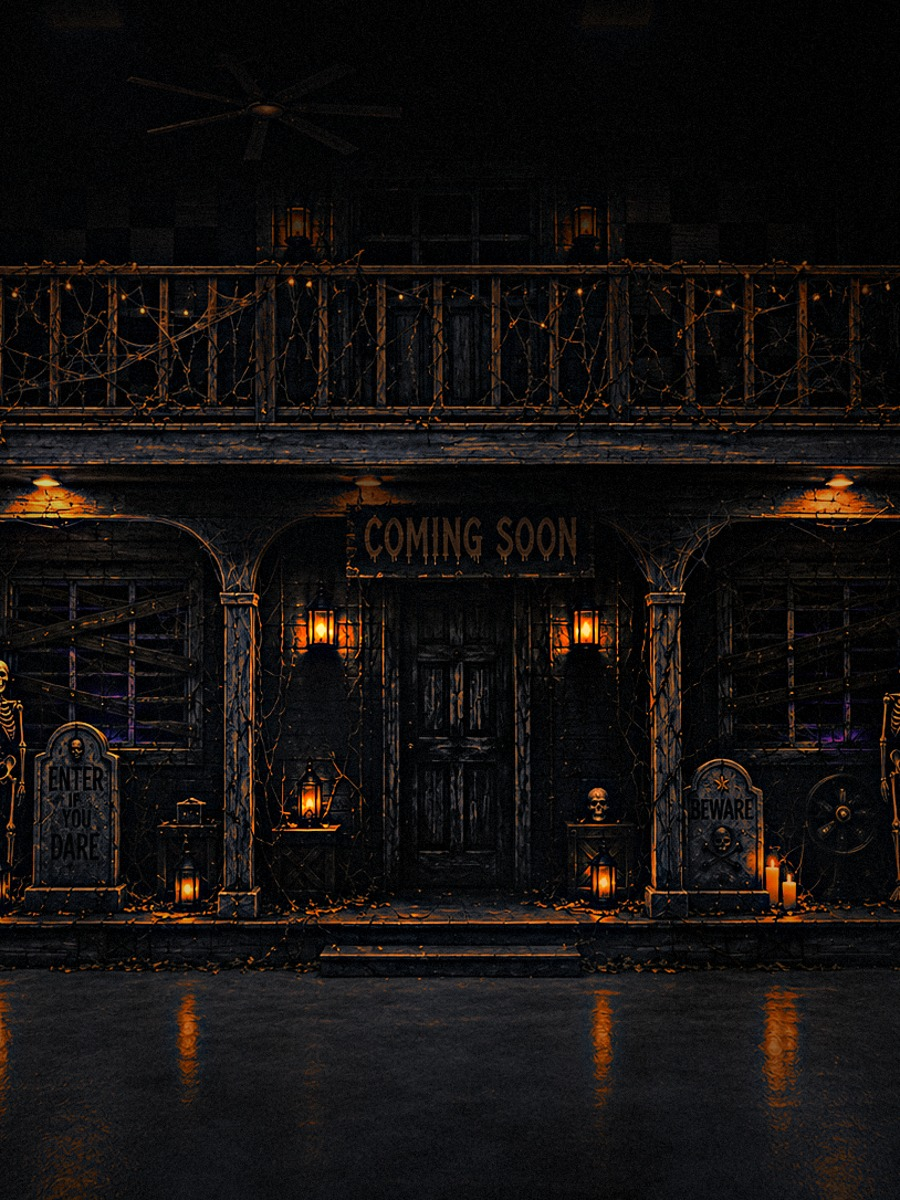
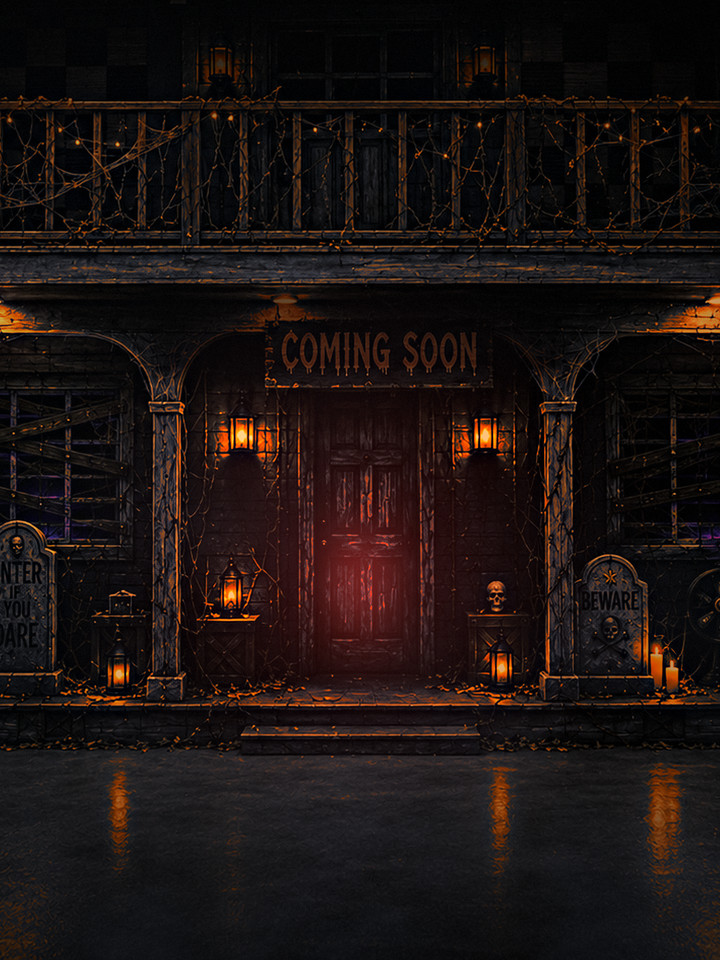
Red pass, 2x hero plates, name field, phone layout
The page read as atmospheric but not frightening, so red now comes from
exactly one place: behind the front door. It is graded into the plate as a
lit doorway rather than painted over the page, and the hero scrim came down
from .88 to .72 so it actually survives to the browser.

The house looked soft because a 1448px render was being stretched to a
retina viewport. The whole grade now runs at 2x and ships @2x plates behind
a srcset, so fog, halation and grain are real pixels at display size.

Form takes Name, Email, Phone. No upsert on insert: merge-duplicates makes
it an UPDATE and nothing should be able to rewrite a row here. A repeat
signup 409s, which the client already treats as success.

Phone pass: heavier crop and no blend-mode fog on small screens, full-width
tap target, balanced display lines so short ones stop orphaning a word, and
a landscape case for short viewports.

Claude-Session: https://claude.ai/code/session_01ByPgt9rQvzWTEajtcNvSYQ

diff --git a/index.html b/index.html
@@ -17,8 +17,8 @@
 <link rel="preconnect" href="https://fonts.googleapis.com">
 <link rel="preconnect" href="https://fonts.gstatic.com" crossorigin>
 <link href="https://fonts.googleapis.com/css2?family=Cinzel:wght@400;600&family=Cormorant+Garamond:ital,wght@0,300;0,400;1,300&display=swap" rel="stylesheet">
-<link rel="preload" as="image" href="img/hero-wide.jpg" media="(min-width: 700px)">
-<link rel="preload" as="image" href="img/hero-tall.jpg" media="(max-width: 699px)">
+<link rel="preload" as="image" href="img/hero-wide.jpg" imagesrcset="img/hero-wide.jpg 1x, img/hero-wide@2x.jpg 2x" media="(min-width: 700px)">
+<link rel="preload" as="image" href="img/hero-tall.jpg" imagesrcset="img/hero-tall.jpg 1x, img/hero-tall@2x.jpg 2x" media="(max-width: 699px)">
 <style>
 :root{
   --ink:#050505;
@@ -27,6 +27,8 @@
   --ash:#5e574e;
   --ember:#c2702f;
   --blood:#7d1d14;
+  /* --blood is a fill. Type on near-black needs the lit one. */
+  --blood-lit:#c9342a;
   --serif:"Cormorant Garamond",Georgia,"Times New Roman",serif;
   --display:"Cinzel","Cormorant Garamond",Georgia,serif;
   --slow:cubic-bezier(.16,1,.3,1);
@@ -79,8 +81,10 @@ body{
    headline stops fighting the sign hanging over the door */
 .stage{align-items:end}
 .hero{position:relative;z-index:2;text-align:center;padding:0 6vw 11vh;isolation:isolate}
+/* the scrim was at .88 and swallowing the red coming out of the doorway.
+   The headline already carries its own shadow, so let the door show through. */
 .hero::before{content:"";position:absolute;inset:-8vh -12vw -8vh;z-index:-1;
-  background:radial-gradient(58% 60% at 50% 55%,rgba(3,3,3,.88),rgba(3,3,3,.55) 55%,transparent 78%)}
+  background:radial-gradient(58% 60% at 50% 55%,rgba(3,3,3,.72),rgba(3,3,3,.40) 55%,transparent 78%)}
 .hero h1{
   font-family:var(--display);font-weight:400;margin:0;
   font-size:clamp(1.9rem,6.2vw,4.6rem);line-height:1.06;letter-spacing:.01em;
@@ -88,19 +92,19 @@ body{
 .hero h1 span{display:block}
 .hero h1 .buried{
   display:block;margin-top:.5em;font-size:clamp(.78rem,2.1vw,1.35rem);
-  letter-spacing:.22em;color:#c08a75;font-weight:400}
+  letter-spacing:.22em;color:#bd5748;font-weight:400}
 .clue{margin:2.6rem 0 0;font-size:clamp(.62rem,1.5vw,.8rem);letter-spacing:.42em;
   color:#8f8578;text-transform:uppercase}
 .clue b{display:block;font-weight:400;margin-top:.65rem;color:#cbc0b1;letter-spacing:.34em}
 .scroll{position:absolute;bottom:3.2vh;left:50%;transform:translateX(-50%);z-index:2;
-  width:1px;height:8vh;background:linear-gradient(to bottom,transparent,var(--ash));opacity:.7}
+  width:1px;height:8vh;background:linear-gradient(to bottom,transparent,var(--blood-lit));opacity:.55}
 
 /* ---------- everything below the house ---------- */
 main{position:relative;background:var(--ink)}
 section{max-width:44rem;margin:0 auto;padding:clamp(5rem,14vh,9rem) 7vw}
 .eyebrow{font-family:var(--display);font-size:clamp(1.15rem,3.4vw,1.9rem);letter-spacing:.16em;
   margin:0 0 2.4rem;color:#d6cbba;text-transform:uppercase}
-.rule{width:100%;height:1px;border:0;background:linear-gradient(to right,transparent,var(--ash),transparent);
+.rule{width:100%;height:1px;border:0;background:linear-gradient(to right,transparent,#5a2a24,transparent);
   opacity:.5;margin:0}
 
 /* signup */
@@ -111,14 +115,15 @@ section{max-width:44rem;margin:0 auto;padding:clamp(5rem,14vh,9rem) 7vw}
   padding:.85rem .1rem;color:var(--bone);font-family:var(--serif);font-size:1.05rem;
   letter-spacing:.12em;transition:border-color .35s var(--slow)}
 .field input::placeholder{color:#4e4740;letter-spacing:.2em;text-transform:uppercase;font-size:.78rem}
-.field input:focus{outline:none;border-bottom-color:var(--ember)}
+.field input:focus{outline:none;border-bottom-color:var(--blood-lit)}
 .sr{position:absolute;width:1px;height:1px;overflow:hidden;clip:rect(0 0 0 0);white-space:nowrap}
 button{
   margin-top:.6rem;background:transparent;color:#ddd2c1;border:1px solid #4a423a;
   font-family:var(--display);font-size:.82rem;letter-spacing:.3em;text-transform:uppercase;
   padding:1.15rem 1.4rem;cursor:pointer;
   transition:background-color .3s var(--slow),border-color .3s var(--slow),color .3s var(--slow)}
-button:hover,button:focus-visible{background:#180d09;border-color:var(--ember);color:#f0e5d4;outline:none}
+button:hover,button:focus-visible{background:#170907;border-color:var(--blood-lit);color:#f0e5d4;
+  box-shadow:0 0 34px -12px rgba(201,52,42,.75);outline:none}
 button[disabled]{opacity:.45;cursor:wait}
 .fine{margin:1.4rem 0 0;font-size:.78rem;letter-spacing:.2em;text-transform:uppercase;color:var(--ash)}
 .err{margin:.2rem 0 0;font-size:.8rem;letter-spacing:.14em;color:#a4453a;min-height:1.2em}
@@ -130,7 +135,8 @@ button[disabled]{opacity:.45;cursor:wait}
   margin:0 0 .9rem;text-transform:uppercase;color:#ded3c2}
 .done small{display:block;margin-top:.9rem;font-size:.95rem;letter-spacing:.1em;color:var(--bone-dim);
   font-family:var(--serif);text-transform:none}
-.knock{margin-top:2.6rem;opacity:0;color:#9c6a5c;font-family:var(--display);
+.knock{margin-top:2.6rem;opacity:0;color:var(--blood-lit);font-family:var(--display);
+  text-shadow:0 0 30px rgba(201,52,42,.45);
   letter-spacing:.24em;font-size:clamp(.85rem,2.4vw,1.15rem);text-transform:uppercase;
   transition:opacity 1.6s var(--slow)}
 .knock.is-on{opacity:1}
@@ -152,7 +158,8 @@ button[disabled]{opacity:.45;cursor:wait}
 .close{min-height:78svh;display:grid;place-content:center;text-align:center;gap:4.5rem;
   max-width:none;padding:14vh 7vw}
 .close p{font-family:var(--display);font-size:clamp(1.4rem,5.4vw,3rem);letter-spacing:.16em;
-  text-transform:uppercase;margin:0;color:#d8cdbc}
+  text-transform:uppercase;margin:0;color:#d8cdbc;
+  text-shadow:0 0 60px rgba(160,26,18,.42)}
 .close a{color:var(--ash);text-decoration:none;font-size:.8rem;letter-spacing:.32em;
   text-transform:uppercase;transition:color .3s var(--slow)}
 .close a:hover,.close a:focus-visible{color:var(--bone)}
@@ -160,6 +167,60 @@ button[disabled]{opacity:.45;cursor:wait}
 /* entrances */
 .rise{opacity:0;transform:translateY(18px);transition:opacity 1.1s var(--slow),transform 1.1s var(--slow)}
 .rise.is-in{opacity:1;transform:none}
+
+/* ---------- phones ----------
+   Two things break on a phone that do not break on a desktop. First, every
+   size tuned in vw collapses to its floor on a 390px screen, so the small type
+   was landing near 10px. Second, the atmosphere is expensive: a 108% image
+   under two screen-blended fog layers is three full-bleed composited layers,
+   and screen blending in particular forces an offscreen pass on mobile GPUs.
+   So: raise the floors, and spend the frame budget on one fog layer instead
+   of two. */
+@media (max-width:699px){
+  .stage__img{inset:-2%;width:104%;height:104%}
+  @keyframes drift{
+    from{transform:scale(1.02) translate3d(0,0,0)}
+    to  {transform:scale(1.06) translate3d(-.8%,-1%,0)}
+  }
+  /* one tile, no blend mode, sized off the short edge so it reads as fog
+     rather than as one big smear */
+  .fog{mix-blend-mode:normal;background-size:78vmin;opacity:.09}
+  .fog--b{display:none}
+  .flicker{background:radial-gradient(72% 42% at 50% 62%,rgba(194,112,47,.15),transparent 72%)}
+
+  .hero{padding:0 7vw 9vh}
+  .hero h1{font-size:clamp(2.1rem,8.6vw,3rem);line-height:1.1}
+  .hero h1 .buried{font-size:.86rem;letter-spacing:.16em;margin-top:.9em}
+  .clue{margin-top:2.2rem;font-size:.7rem;letter-spacing:.3em}
+  .clue b{font-size:.78rem;letter-spacing:.26em}
+  .scroll{height:6vh;bottom:2.4vh}
+
+  section{padding:clamp(4.5rem,11vh,7rem) 8vw}
+  .eyebrow{font-size:1.45rem;margin-bottom:2rem}
+  .form{gap:1.5rem;max-width:none}
+  .field input{font-size:1.05rem;padding:.95rem .1rem}
+  .field input::placeholder{font-size:.72rem;letter-spacing:.18em}
+  button{width:100%;padding:1.25rem 1rem;font-size:.8rem;letter-spacing:.26em}
+  .fine{font-size:.72rem;letter-spacing:.16em;line-height:1.9}
+  .facts{font-size:1.05rem;line-height:1.95}
+  .done p{font-size:1.35rem}
+  /* short display lines were orphaning their last word ("SEPTEMBER / 25.",
+     "ANSWER THE / DOOR."). Balance them so the break lands somewhere chosen. */
+  .facts span,.done p,.knock,.close p,.hero h1 span{text-wrap:balance}
+  .close{min-height:70svh;gap:3.2rem;padding:11vh 8vw calc(11vh + env(safe-area-inset-bottom))}
+  .close p{font-size:2rem;letter-spacing:.12em}
+  .close a{font-size:.74rem;letter-spacing:.26em}
+}
+
+/* A phone held sideways has ~390px of height. Give the headline the room
+   back rather than letting the porch push it off the bottom. */
+@media (max-height:520px) and (orientation:landscape){
+  .stage{min-height:105svh}
+  .hero{padding-bottom:6vh}
+  .hero h1{font-size:clamp(1.6rem,5vw,2.4rem)}
+  .clue{margin-top:1.4rem}
+  .scroll{display:none}
+}
 
 @media (prefers-reduced-motion:reduce){
   .stage__img,.fog--a,.fog--b,.flicker,.cut{animation:none}
@@ -172,8 +233,9 @@ button[disabled]{opacity:.45;cursor:wait}
 
 <div class="stage">
   <picture>
-    <source media="(max-width:699px)" srcset="img/hero-tall.jpg">
-    <img class="stage__img" src="img/hero-wide.jpg" alt="A boarded-up house at night, lit only by lanterns on its porch." fetchpriority="high">
+    <source media="(max-width:699px)" srcset="img/hero-tall.jpg 1x, img/hero-tall@2x.jpg 2x">
+    <img class="stage__img" src="img/hero-wide.jpg" srcset="img/hero-wide.jpg 1x, img/hero-wide@2x.jpg 2x"
+         alt="A boarded-up house at night. Lanterns burn on the porch and something red is lit behind the front door." fetchpriority="high">
   </picture>
   <div class="fog fog--a"></div>
   <div class="fog fog--b"></div>
@@ -198,6 +260,11 @@ button[disabled]{opacity:.45;cursor:wait}
     <h2 class="eyebrow rise">Be first inside.</h2>
 
     <form class="form rise" id="join" novalidate>
+      <div class="field">
+        <label class="sr" for="name">Name</label>
+        <input id="name" name="name" type="text" inputmode="text" autocomplete="name"
+               placeholder="Name" required>
+      </div>
       <div class="field">
         <label class="sr" for="email">Email</label>
         <input id="email" name="email" type="email" inputmode="email" autocomplete="email"
@@ -282,8 +349,17 @@ const knock = document.getElementById("knock");
 form.addEventListener("submit", async (e) => {
   e.preventDefault();
   err.textContent = "";
+  // form.name is the form's own name attribute, not the field. Go through elements.
+  const nameEl = form.elements.namedItem("name");
+  const name  = nameEl.value.trim();
   const email = form.email.value.trim();
   const phone = form.phone.value.trim();
+
+  if(name.length < 2){
+    err.textContent = "The house wants a name.";
+    nameEl.focus();
+    return;
+  }
 
   if(!/^[^\s@]+@[^\s@]+\.[^\s@]{2,}$/.test(email)){
     err.textContent = "That address will not reach you.";
@@ -300,7 +376,7 @@ form.addEventListener("submit", async (e) => {
       // No upsert: PostgREST's merge-duplicates needs an UPDATE policy, and nobody
       // should be able to rewrite a row on this table. A repeat signup 409s instead.
       headers: Object.assign({}, headers, {Prefer:"return=minimal"}),
-      body: JSON.stringify({email: email, phone: phone || null, user_agent: navigator.userAgent})
+      body: JSON.stringify({name: name, email: email, phone: phone || null, user_agent: navigator.userAgent})
     });
     // A duplicate is not a failure: they are already on the list either way.
     if(!r.ok && r.status !== 409) throw new Error(String(r.status));

diff --git a/tools/hero.py b/tools/hero.py
@@ -13,7 +13,13 @@ from PIL import Image, ImageFilter
 SRC = os.path.join("img", "facade-raw.png")
 OUT = "img"
 
+# The source render is only 1448px wide. Grading at 1x and letting the browser
+# upscale to a retina viewport is what made the house look soft, so the whole
+# pass runs at 2x: the fog, halation and grain are then real pixels at the size
+# the page actually displays, instead of a stretched 1x plate.
+SUPER = 2
 im = Image.open(SRC).convert("RGB")
+im = im.resize((im.width * SUPER, im.height * SUPER), Image.LANCZOS)
 W, H = im.size
 x = np.asarray(im).astype(np.float32) / 255.0
 
@@ -75,6 +81,14 @@ x *= (1 - 0.74 * sign)[..., None]
 door = np.exp(-(((nx - 0.5) / 0.055) ** 2 + ((ny - 0.63) / 0.09) ** 2))
 x *= (1 - 0.70 * door * (1 - keep))[..., None]
 
+# The one red in the frame, and it comes from inside the house. Amber light on
+# a porch is hospitality; red light behind a door is not. A tight core in the
+# doorway gap, a wider bleed that catches the columns and the fog above it.
+core = np.exp(-(((nx - 0.5) / 0.030) ** 2 + ((ny - 0.655) / 0.055) ** 2))
+bleed = np.exp(-(((nx - 0.5) / 0.115) ** 2 + ((ny - 0.640) / 0.155) ** 2))
+blood = np.array([1.00, 0.11, 0.07], np.float32)
+x = x + (core * 0.58 + bleed * 0.19)[..., None] * blood * (1 - x)
+
 # 4. exposure back up, one cold source upper-left, flames stay amber
 x = np.clip(x * 1.18, 0, 1)
 cold = np.array([0.70, 0.84, 1.16], np.float32); cold /= cold.mean()
@@ -97,21 +111,37 @@ x = x + fog[..., None] * 0.30 * np.array([0.50, 0.58, 0.72], np.float32) * (1 - 
 # 7. halation, rotted local contrast, closing frame, grain
 e = blur(np.clip(x - 0.42, 0, 1) * practical, W * 0.015)
 x = x + e * 0.32 * np.array([1.00, 0.56, 0.20], np.float32)
-x = np.clip(x + (x - blur(x, W * 0.006)) * 0.75, 0, 1)
+# red spills further than the lanterns do - a wide, weak glow off the doorway
+x = x + blur(core + bleed * 0.5, W * 0.035)[..., None] * 0.15 * blood
+# 0.75 was carving halos around every board. Enough to read as texture, no more.
+x = np.clip(x + (x - blur(x, W * 0.006)) * 0.42, 0, 1)
 r = np.sqrt(((nx - 0.5) * 1.20) ** 2 + ((ny - 0.58) * 1.02) ** 2)
 x *= np.clip(1.14 - r * 1.02, 0.03, 1.0)[..., None]
-gr = np.random.default_rng(5).normal(0, 0.020, (H, W)).astype(np.float32)
+gr = np.random.default_rng(5).normal(0, 0.013, (H, W)).astype(np.float32)
 x = x + gr[..., None] * (1 - np.clip(x, 0, 1)) ** 1.4
 
 full = Image.fromarray((np.clip(x, 0, 1) * 255).astype(np.uint8))
-full.save(os.path.join(OUT, "hero-full.jpg"), quality=93)
 
-# 16:9 for desktop, 3:4 for phones - the phone crop keeps the doorway centred
+# 16:9 for desktop, 3:4 for phones - the phone crop keeps the doorway centred.
+# Each ships at 1x and 2x so the page can hand the right plate to each screen
+# instead of making one file cover both badly.
 w, h = full.size
 top = int(h * 0.10)
-full.crop((0, top, w, min(h, top + int(w * 9 / 16)))).save(
-    os.path.join(OUT, "hero-wide.jpg"), quality=92)
-cw = int(h * 3 / 4)
-full.crop(((w - cw) // 2, 0, (w - cw) // 2 + cw, h)).resize((900, 1200)).save(
-    os.path.join(OUT, "hero-tall.jpg"), quality=92)
-print("wrote hero-full / hero-wide / hero-tall")
+wide = full.crop((0, top, w, min(h, top + int(w * 9 / 16))))
+# start the phone crop below the ceiling line so the fan and the room above it
+# never make it into the plate, whatever object-fit does with it later
+ttop = int(h * 0.13)
+th = h - ttop
+cw = int(th * 3 / 4)
+tall = full.crop(((w - cw) // 2, ttop, (w - cw) // 2 + cw, h))
+
+for name, src, size2x in (("hero-wide", wide, (2560, 1440)),
+                          ("hero-tall", tall, (1440, 1920))):
+    big = src.resize(size2x, Image.LANCZOS)
+    small = src.resize((size2x[0] // 2, size2x[1] // 2), Image.LANCZOS)
+    big.save(os.path.join(OUT, name + "@2x.jpg"), quality=88, optimize=True,
+             progressive=True, subsampling=0)
+    small.save(os.path.join(OUT, name + ".jpg"), quality=90, optimize=True,
+               progressive=True, subsampling=0)
+    print(name, small.size, "+", big.size)
+print("wrote hero-wide / hero-tall at 1x and 2x")
